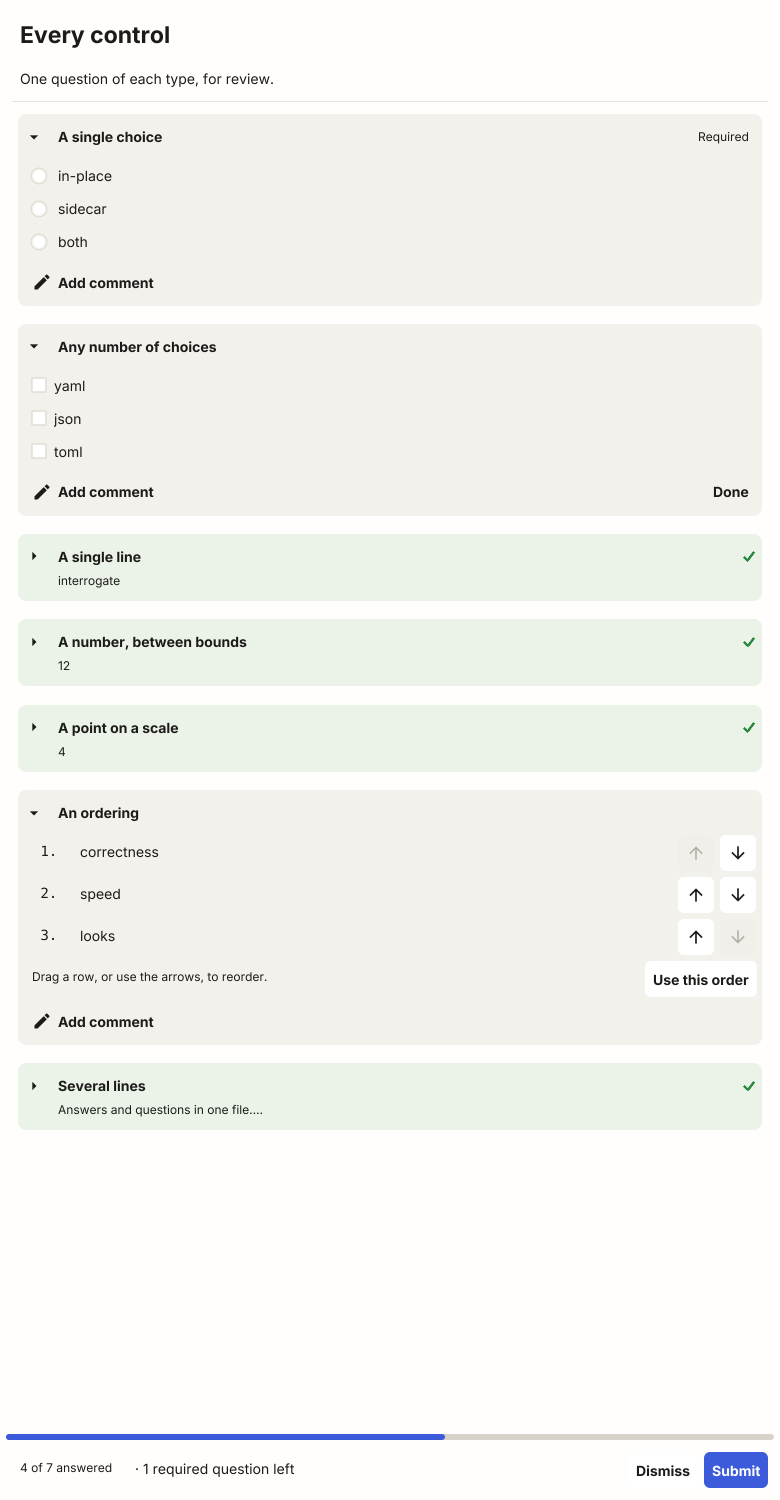
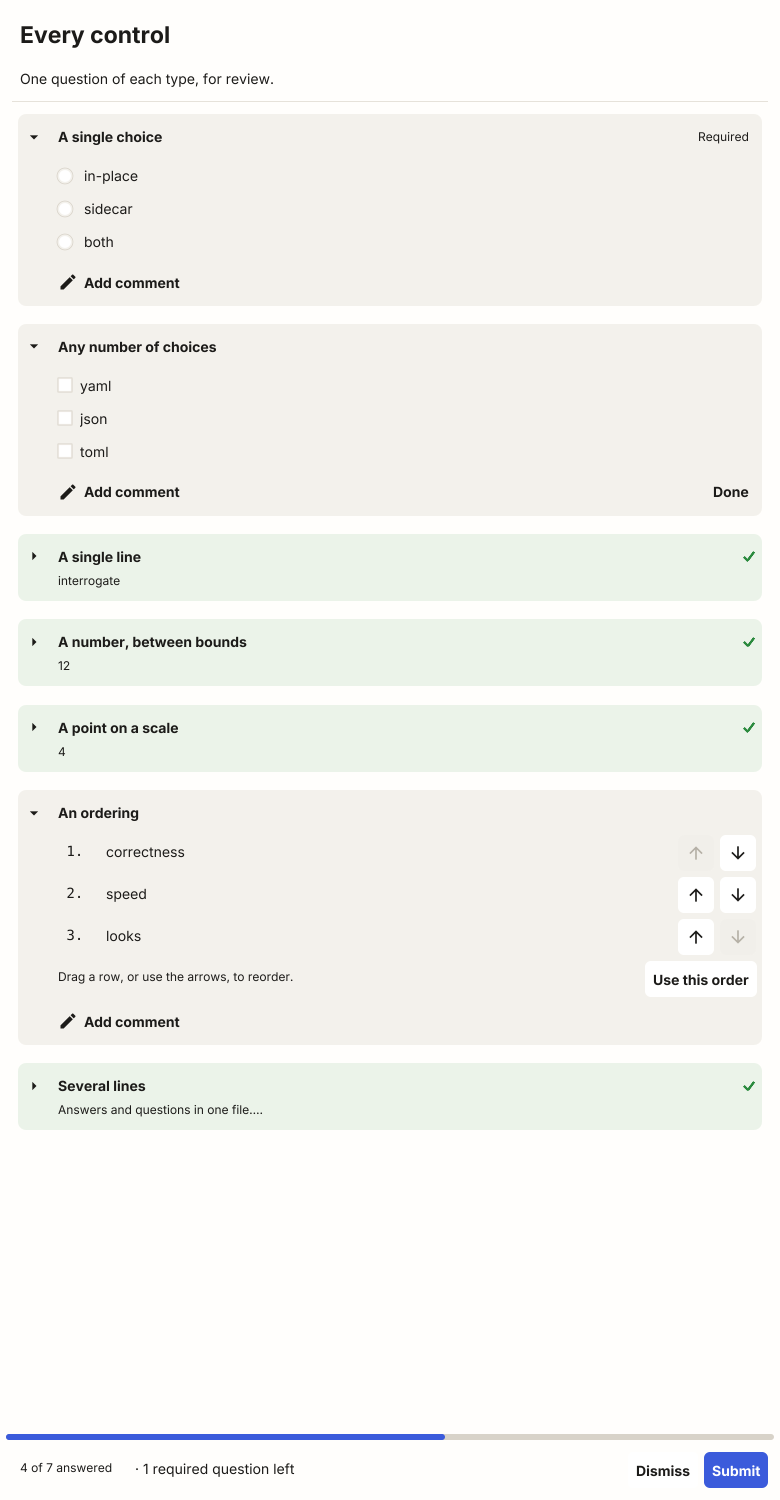
Line a question's controls up with its prompt
The controls started at the card's edge, a chevron's width to the left
of the prompt they answer, so nothing on a card shared a left edge with
anything else. The body now sits in the prompt's own column, which
leaves an empty strip under the chevron and is worth it.

Where that column starts is one function now, used by the header to
place the prompt and by the body to indent itself, so the two cannot
drift apart. The chevron is centred in the strip rather than jammed
against its left edge.

diff --git a/internal/ui/widget_header.go b/internal/ui/widget_header.go
@@ -247,10 +247,9 @@ func (l *headerLayout) MinSize(objects []fyne.CanvasObject) fyne.Size {
 	if !ok {
 		return fyne.Size{}
 	}
-	pad := theme.Size(theme.SizeNamePadding)
 	c, s, t := chevron.MinSize(), stack.MinSize(), trailing.MinSize()
 	return fyne.NewSize(
-		c.Width+pad+s.Width+pad+t.Width,
+		promptInset()+s.Width+theme.Size(theme.SizeNamePadding)+t.Width,
 		fyne.Max(s.Height, fyne.Max(c.Height, t.Height)),
 	)
 }
@@ -263,16 +262,18 @@ func (l *headerLayout) Layout(objects []fyne.CanvasObject, size fyne.Size) {
 	pad := theme.Size(theme.SizeNamePadding)
 	c, t := chevron.MinSize(), trailing.MinSize()
 
-	width := size.Width - c.Width - t.Width - 2*pad
+	width := size.Width - promptInset() - t.Width - pad
 	if width < 0 {
 		width = 0
 	}
 	stack.Resize(fyne.NewSize(width, stack.MinSize().Height))
-	stack.Move(fyne.NewPos(c.Width+pad, 0))
+	stack.Move(fyne.NewPos(promptInset(), 0))
 
 	line := promptLineCentre()
 	chevron.Resize(c)
-	chevron.Move(fyne.NewPos(0, line-c.Height/2))
+	// Centred in the column rather than jammed against its left edge, so a
+	// chevron narrower than an inline icon still looks deliberate.
+	chevron.Move(fyne.NewPos((promptInset()-pad-c.Width)/2, line-c.Height/2))
 	trailing.Resize(t)
 	trailing.Move(fyne.NewPos(size.Width-t.Width, line-t.Height/2))
 }
@@ -284,6 +285,13 @@ func (l *headerLayout) parts(objects []fyne.CanvasObject) (chevron, stack, trail
 	return objects[0], objects[1], objects[2], true
 }
 
+// promptInset is where a question's prompt starts: past the column the fold
+// chevron sits in. Everything else the question shows lines up with it, so this
+// is the one place that decides how far in that is.
+func promptInset() float32 {
+	return theme.Size(theme.SizeNameInlineIcon) + theme.Size(theme.SizeNamePadding)
+}
+
 // promptLineCentre is the middle of a prompt's first line of text, measured from
 // the top of the header.
 func promptLineCentre() float32 {
@@ -291,6 +299,49 @@ func promptLineCentre() float32 {
 	// whatever the prompt happens to say.
 	line := fyne.MeasureText("Ag", theme.Size(theme.SizeNameText), fyne.TextStyle{Bold: true}).Height
 	return theme.Size(theme.SizeNameInnerPadding) + line/2
+}
+
+// promptColumn indents whatever it holds to the prompt's own column.
+//
+// A question's controls used to start at the card's edge, a chevron's width to
+// the left of the prompt they answer, so nothing on the card shared a left
+// edge. The space this leaves under the chevron is the price of that alignment,
+// and a cheap one.
+type promptColumn struct{}
+
+func (c *promptColumn) MinSize(objects []fyne.CanvasObject) fyne.Size {
+	var size fyne.Size
+	for _, o := range objects {
+		if !o.Visible() {
+			continue
+		}
+		min := o.MinSize()
+		if min.Width > size.Width {
+			size.Width = min.Width
+		}
+		size.Height += min.Height
+	}
+	if size.Height == 0 {
+		return size // nothing showing: take up no room at all
+	}
+	return fyne.NewSize(size.Width+promptInset(), size.Height)
+}
+
+func (c *promptColumn) Layout(objects []fyne.CanvasObject, size fyne.Size) {
+	width := size.Width - promptInset()
+	if width < 0 {
+		width = 0
+	}
+	y := float32(0)
+	for _, o := range objects {
+		if !o.Visible() {
+			continue
+		}
+		height := o.MinSize().Height
+		o.Resize(fyne.NewSize(width, height))
+		o.Move(fyne.NewPos(promptInset(), y))
+		y += height
+	}
 }
 
 // centredRow lays a handful of marks out in a line, each centred on the row's
@@ -347,4 +398,5 @@ var (
 	_ fyne.Layout        = (*tightStack)(nil)
 	_ fyne.Layout        = (*headerLayout)(nil)
 	_ fyne.Layout        = (*centredRow)(nil)
+	_ fyne.Layout        = (*promptColumn)(nil)
 )

diff --git a/internal/ui/fold_test.go b/internal/ui/fold_test.go
@@ -51,6 +51,55 @@ questions:
 	}
 }
 
+// Everything a question shows shares the prompt's left edge. The controls
+// answer the prompt, and starting them a chevron's width to its left meant
+// nothing on the card lined up with anything else.
+func TestTheBodyLinesUpWithThePrompt(t *testing.T) {
+	f, _ := build(t, uiDoc)
+	c := f.cards["storage"]
+
+	w := test.NewWindow(f.build())
+	defer w.Close()
+	w.Resize(fyne.NewSize(780, 900))
+
+	inner := c.body.Objects[0]
+	if got, want := inner.Position().X, promptInset(); got != want {
+		t.Errorf("the body starts at x=%v, want the prompt's column at x=%v", got, want)
+	}
+	if got, want := c.header.stack.Position().X, promptInset(); got != want {
+		t.Errorf("the prompt starts at x=%v, want x=%v", got, want)
+	}
+	// Which is the point: one left edge, not two.
+	if inner.Position().X != c.header.stack.Position().X {
+		t.Errorf("the body is at x=%v and the prompt at x=%v",
+			inner.Position().X, c.header.stack.Position().X)
+	}
+	// And the chevron sits in the space that leaves.
+	if got := c.header.chevron.Position().X; got < 0 || got >= promptInset() {
+		t.Errorf("the chevron is at x=%v, want it inside the %v column", got, promptInset())
+	}
+}
+
+// The indent must not become a gap of its own when there is nothing to indent,
+// or a folded question would leave a band of empty card behind.
+func TestThePromptColumnTakesNoRoomForNothing(t *testing.T) {
+	shown := widget.NewLabel("something")
+	hidden := widget.NewLabel("nothing")
+	hidden.Hide()
+	column := &promptColumn{}
+
+	if got := column.MinSize([]fyne.CanvasObject{hidden}); got != (fyne.Size{}) {
+		t.Errorf("MinSize = %v with nothing showing, want no size at all", got)
+	}
+	got := column.MinSize([]fyne.CanvasObject{shown})
+	if got.Height != shown.MinSize().Height {
+		t.Errorf("height = %v, want the %v its content asks for", got.Height, shown.MinSize().Height)
+	}
+	if want := shown.MinSize().Width + promptInset(); got.Width != want {
+		t.Errorf("width = %v, want %v: the content plus the column it is indented past", got.Width, want)
+	}
+}
+
 // --- Folding -------------------------------------------------------------
 
 func TestFoldingHidesTheBodyButKeepsIt(t *testing.T) {

diff --git a/internal/ui/form.go b/internal/ui/form.go
@@ -231,7 +231,9 @@ func (f *form) buildCard(q *questionnaire.Question) *card {
 	c.warning.Hide()
 	parts = append(parts, c.warning)
 
-	c.body = container.NewVBox(parts...)
+	// Indented to the prompt's column: the controls answer the prompt, so they
+	// line up with it rather than with the card's edge.
+	c.body = container.New(&promptColumn{}, container.NewVBox(parts...))
 
 	// The card and the gap around it do the separating a hairline rule was
 	// failing to do, so the separator goes: a card edge and a rule together
